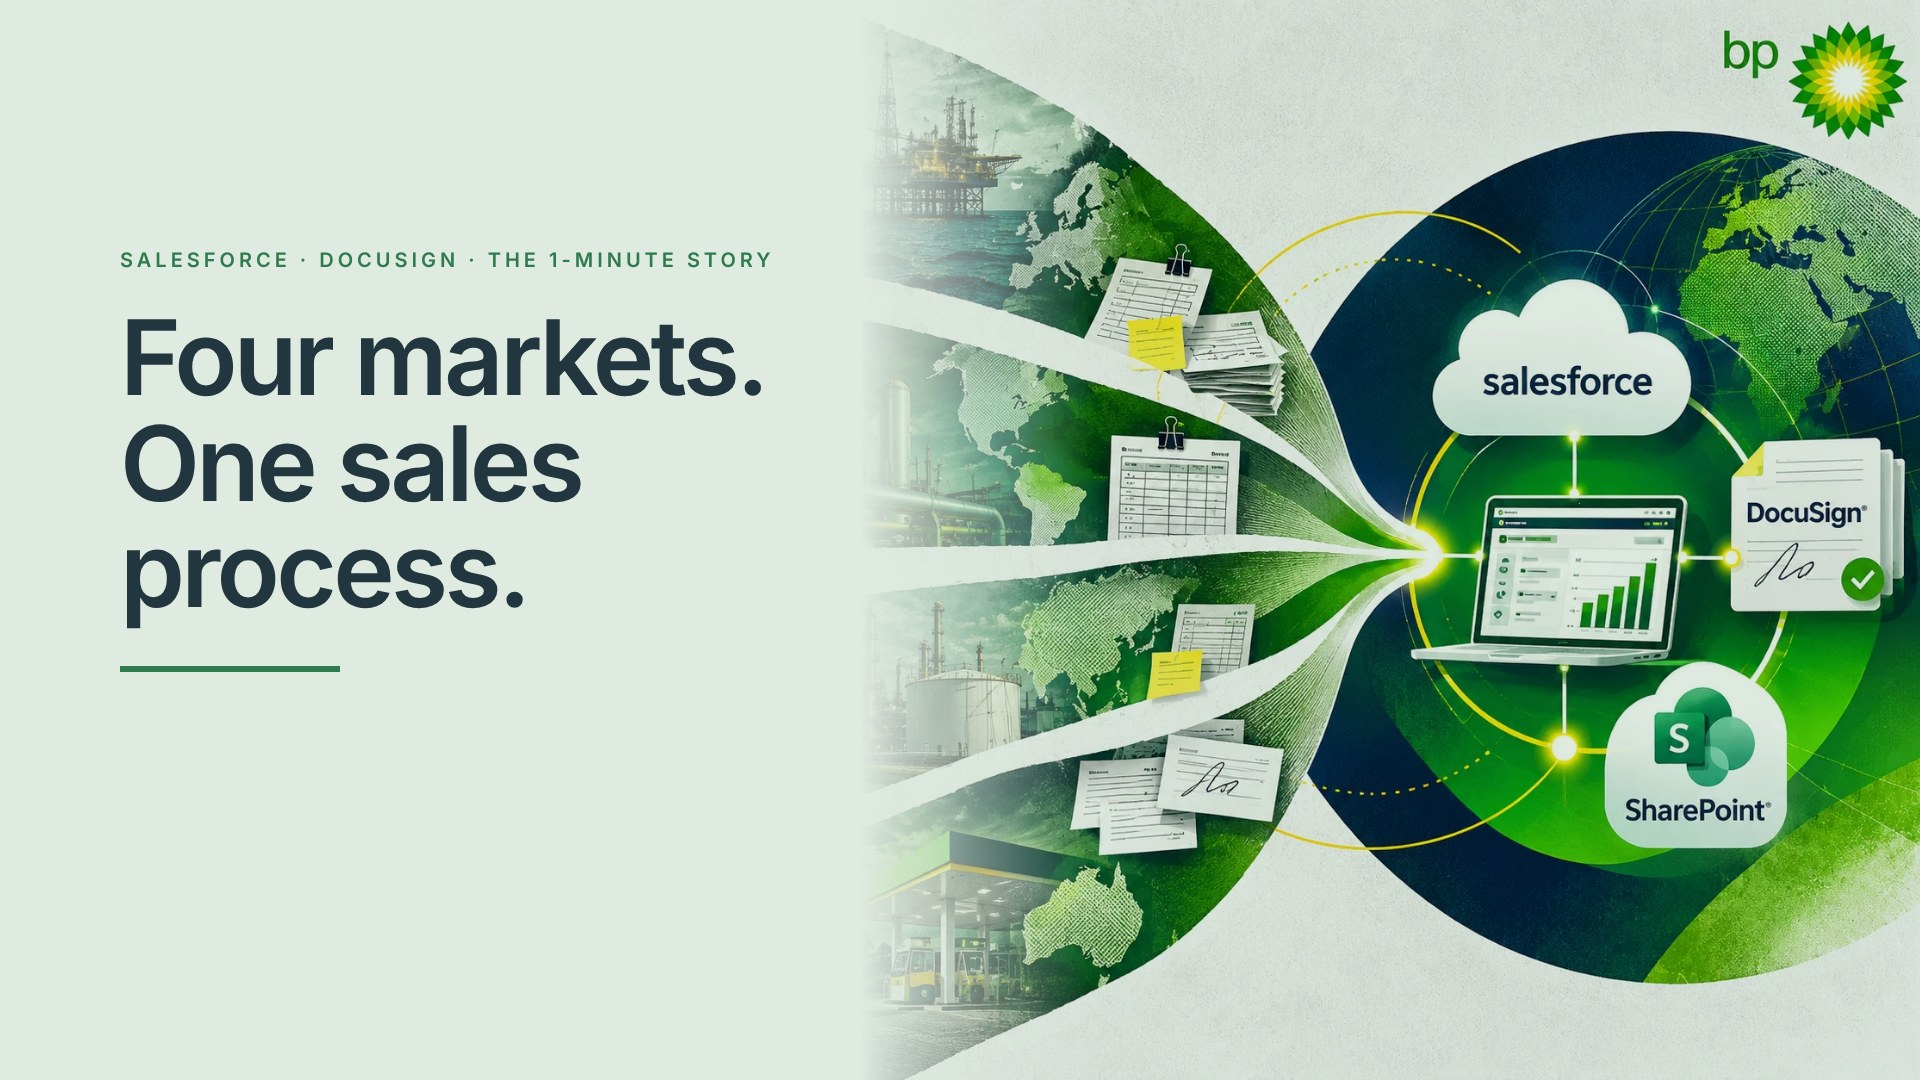
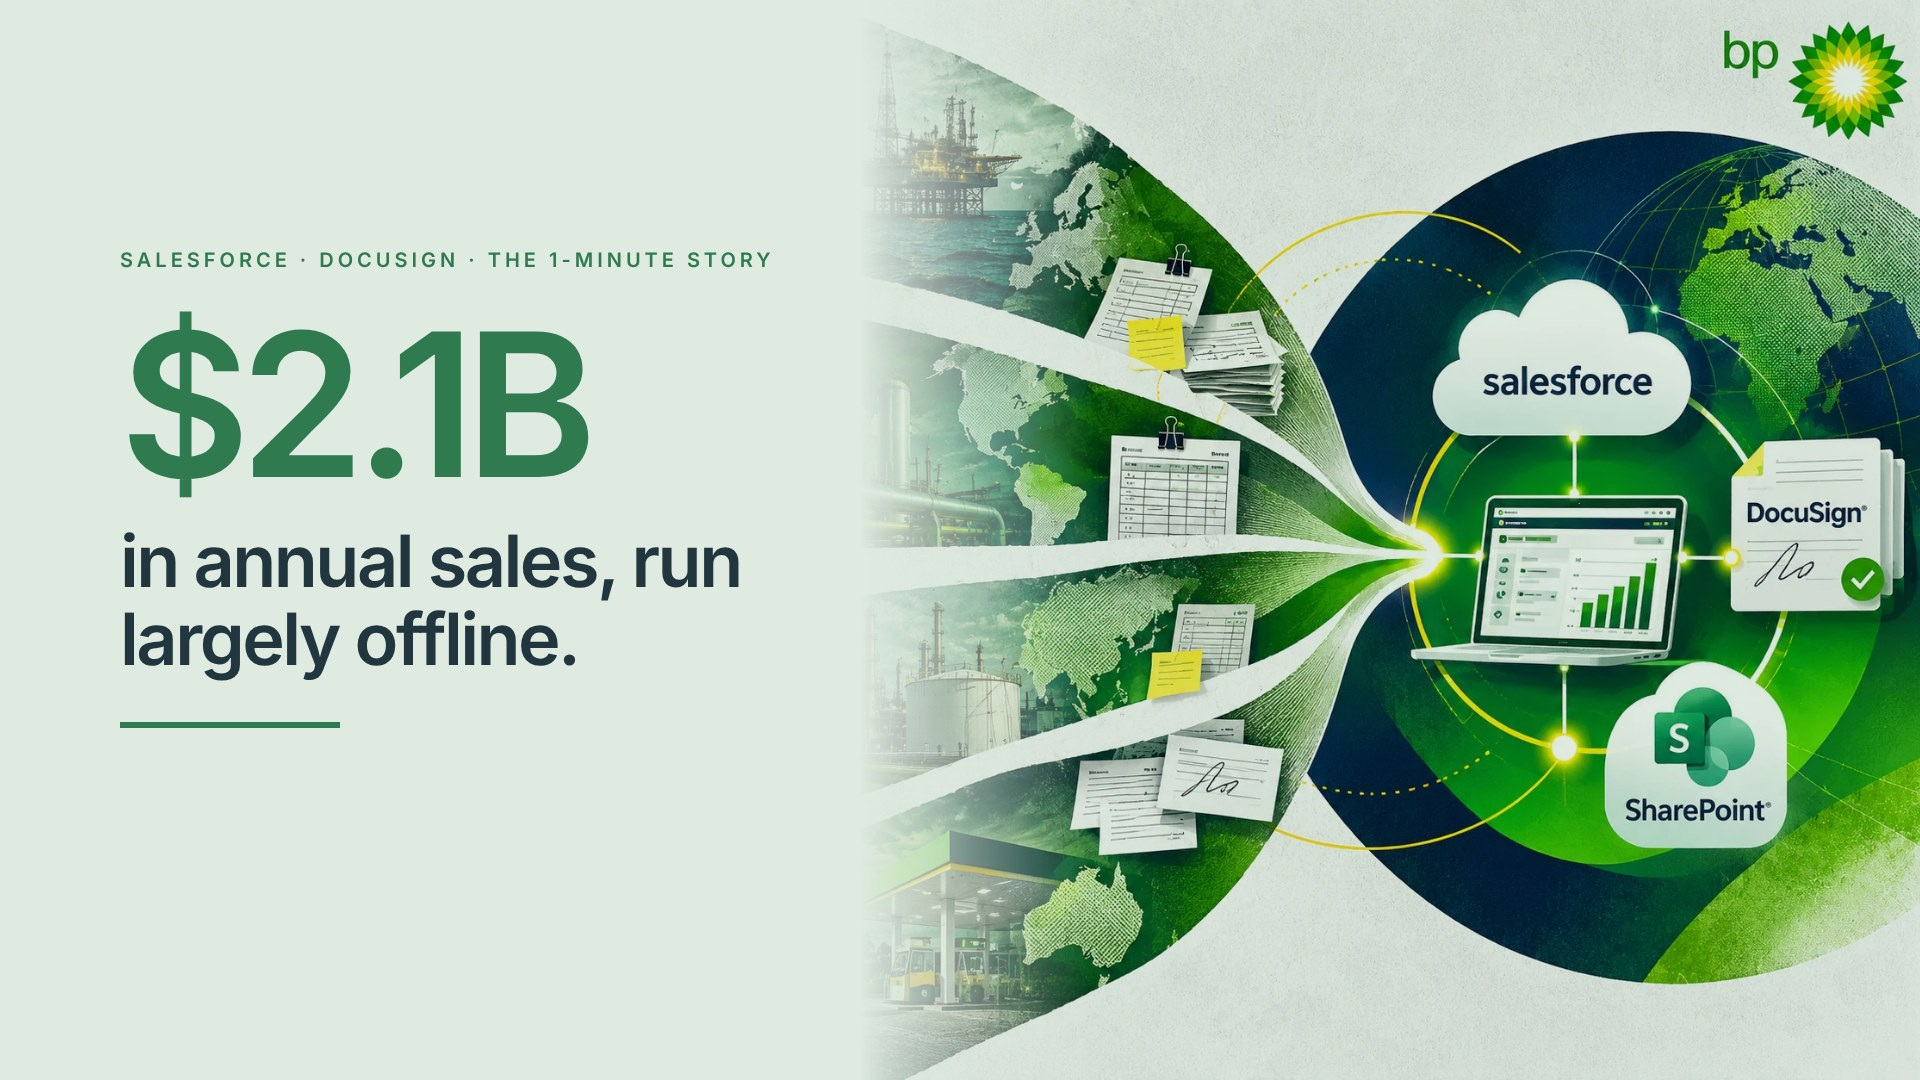
BP video cover: lead with the $2.1B in annual sales
Claude-Session: https://claude.ai/code/session_015jbDQg2fB7wWoEzvX7vNoW

Changed region(s): [[0.0625, 0.275, 0.4062, 0.6722]]

diff --git a/site/bigoil.html b/site/bigoil.html
@@ -48,7 +48,7 @@
 <p class="case-context">The four markets handled $2.1 billion in annual sales with largely offline work, duplicate data entry, and limited forecasting.</p>
 </div>
 <button class="video-open" type="button" aria-haspopup="dialog" aria-controls="case-video-dialog">
-<img class="video-open-poster" src="assets/bigoil/bp-case-study-poster.jpg?v=5" alt="" width="1280" height="720"/>
+<img class="video-open-poster" src="assets/bigoil/bp-case-study-poster.jpg?v=6" alt="" width="1280" height="720"/>
 <span class="video-open-label"><span class="video-open-play" aria-hidden="true"><svg viewBox="0 0 24 24"><path d="M8 5.5v13l11-6.5z"/></svg></span><span class="video-open-text"><strong>Watch the 1-minute story</strong><span>Narrated walkthrough · 1:06</span></span></span>
 </button>
 <dl class="case-facts" aria-label="Case study summary">
@@ -173,5 +173,5 @@
 <figure class="source-figure"><figcaption>POS Refresh (Go Live)</figcaption><a aria-label="Open full-size: POS Refresh (Go Live)" href="assets/bigoil/70cb4.png" rel="noopener" target="_blank"><img alt="POS Refresh (Go Live)" src="assets/bigoil/70cb4.png"/></a></figure>
 <figure class="source-figure"><figcaption>Account Closing</figcaption><a aria-label="Open full-size: Account Closing" href="assets/bigoil/c8954.png" rel="noopener" target="_blank"><img alt="Account Closing" src="assets/bigoil/c8954.png"/></a></figure>
 <figure class="source-figure"><figcaption>Initiation</figcaption><a aria-label="Open full-size: Initiation" href="assets/bigoil/6d8e3.png" rel="noopener" target="_blank"><img alt="Initiation" src="assets/bigoil/6d8e3.png"/></a></figure>
-</div></div></dialog><dialog class="blueprint-dialog video-dialog" id="case-video-dialog" aria-labelledby="case-video-title"><p class="media-viewer-title" id="case-video-title">Sales modernisation at BP: the 1-minute story</p><button aria-label="Close video" class="painpoints-close video-close" type="button"><svg aria-hidden="true" viewbox="0 0 24 24"><path d="M6 6L18 18M18 6L6 18"></path></svg></button><div class="blueprint-dialog-content video-dialog-content"><video class="case-video" controls preload="metadata" playsinline poster="assets/bigoil/bp-case-study-poster.jpg?v=5" src="assets/bigoil/bp-case-study.mp4?v=4"></video></div></dialog><script src="bigoil.js?v=20261115-quiet-86" defer></script><dialog class="blueprint-dialog profile-dialog" id="full-profile-dialog" aria-labelledby="full-profile-title"><header class="blueprint-dialog-header"><p class="figure-title" id="full-profile-title">Full profile</p><button type="button" class="painpoints-close profile-dialog-close" aria-label="Close full profile"><svg viewBox="0 0 24 24" aria-hidden="true"><path d="M6 6L18 18M18 6L6 18"/></svg></button></header><div class="blueprint-dialog-content"><a class="profile-original" target="_blank" rel="noopener"><img class="profile-full-image figure-artwork-fit" alt=""/></a></div></dialog><script src="portfolio-mobile-diagrams.js?v=20261115-quiet-86" defer></script><script src="portfolio-overviews.js?v=20261123-view" defer></script><script src="brand-flask.js?v=20261118-b1" defer></script></body>
+</div></div></dialog><dialog class="blueprint-dialog video-dialog" id="case-video-dialog" aria-labelledby="case-video-title"><p class="media-viewer-title" id="case-video-title">Sales modernisation at BP: the 1-minute story</p><button aria-label="Close video" class="painpoints-close video-close" type="button"><svg aria-hidden="true" viewbox="0 0 24 24"><path d="M6 6L18 18M18 6L6 18"></path></svg></button><div class="blueprint-dialog-content video-dialog-content"><video class="case-video" controls preload="metadata" playsinline poster="assets/bigoil/bp-case-study-poster.jpg?v=6" src="assets/bigoil/bp-case-study.mp4?v=4"></video></div></dialog><script src="bigoil.js?v=20261115-quiet-86" defer></script><dialog class="blueprint-dialog profile-dialog" id="full-profile-dialog" aria-labelledby="full-profile-title"><header class="blueprint-dialog-header"><p class="figure-title" id="full-profile-title">Full profile</p><button type="button" class="painpoints-close profile-dialog-close" aria-label="Close full profile"><svg viewBox="0 0 24 24" aria-hidden="true"><path d="M6 6L18 18M18 6L6 18"/></svg></button></header><div class="blueprint-dialog-content"><a class="profile-original" target="_blank" rel="noopener"><img class="profile-full-image figure-artwork-fit" alt=""/></a></div></dialog><script src="portfolio-mobile-diagrams.js?v=20261115-quiet-86" defer></script><script src="portfolio-overviews.js?v=20261123-view" defer></script><script src="brand-flask.js?v=20261118-b1" defer></script></body>
 </html>
